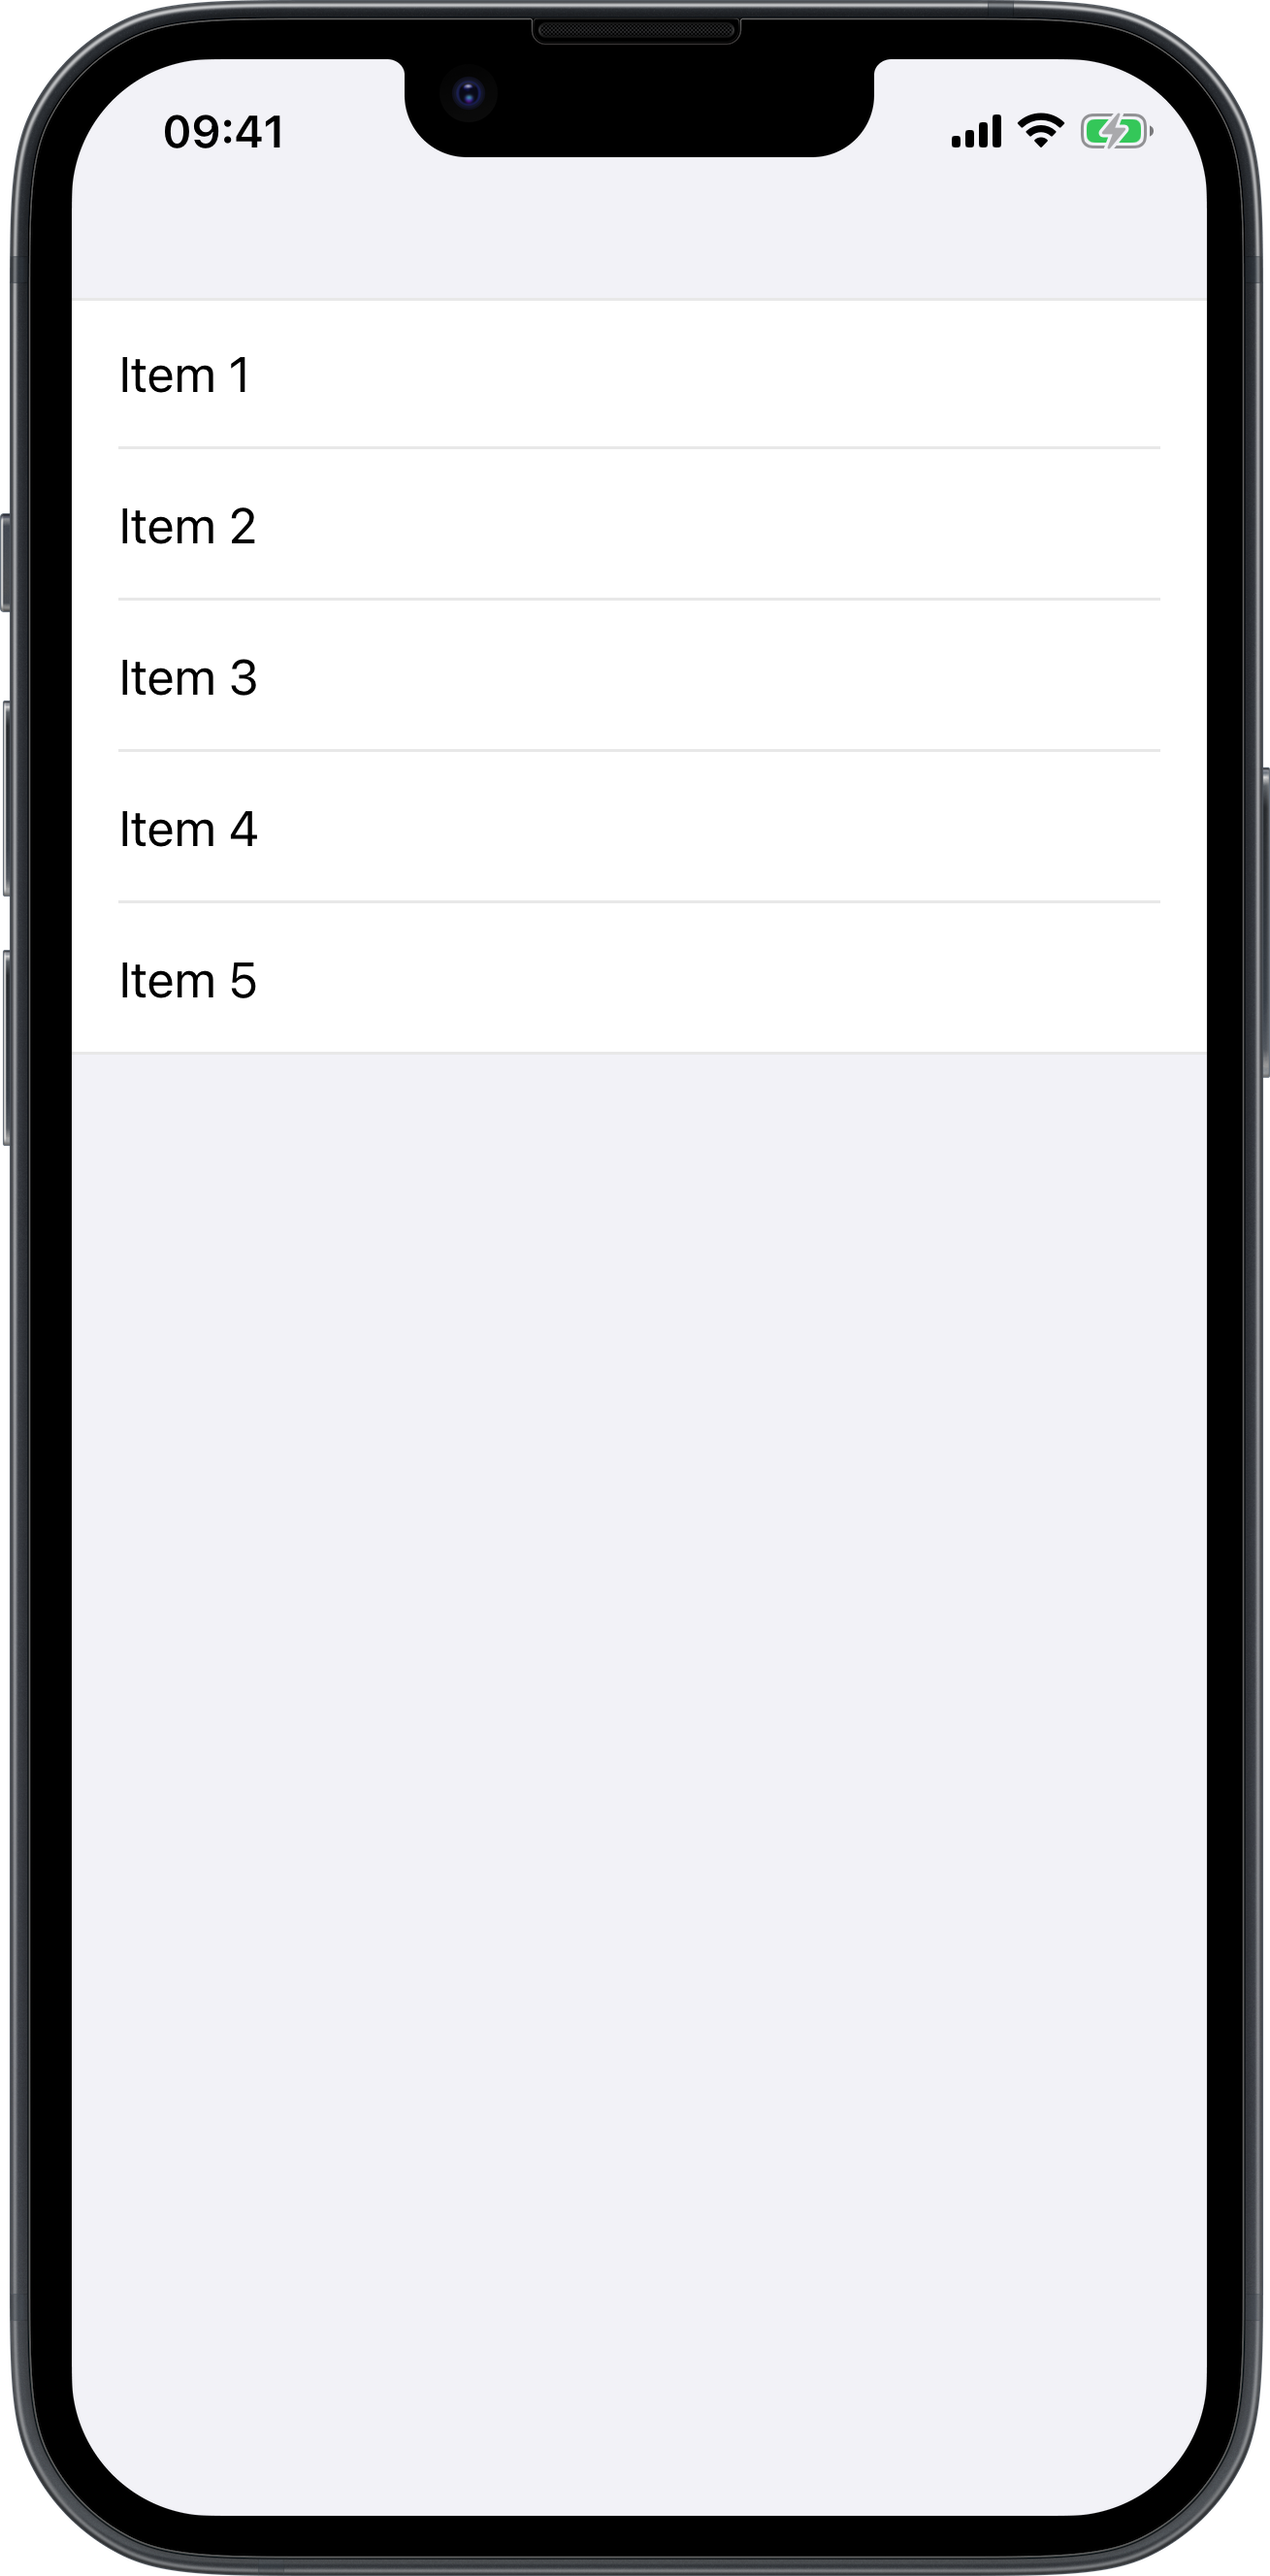
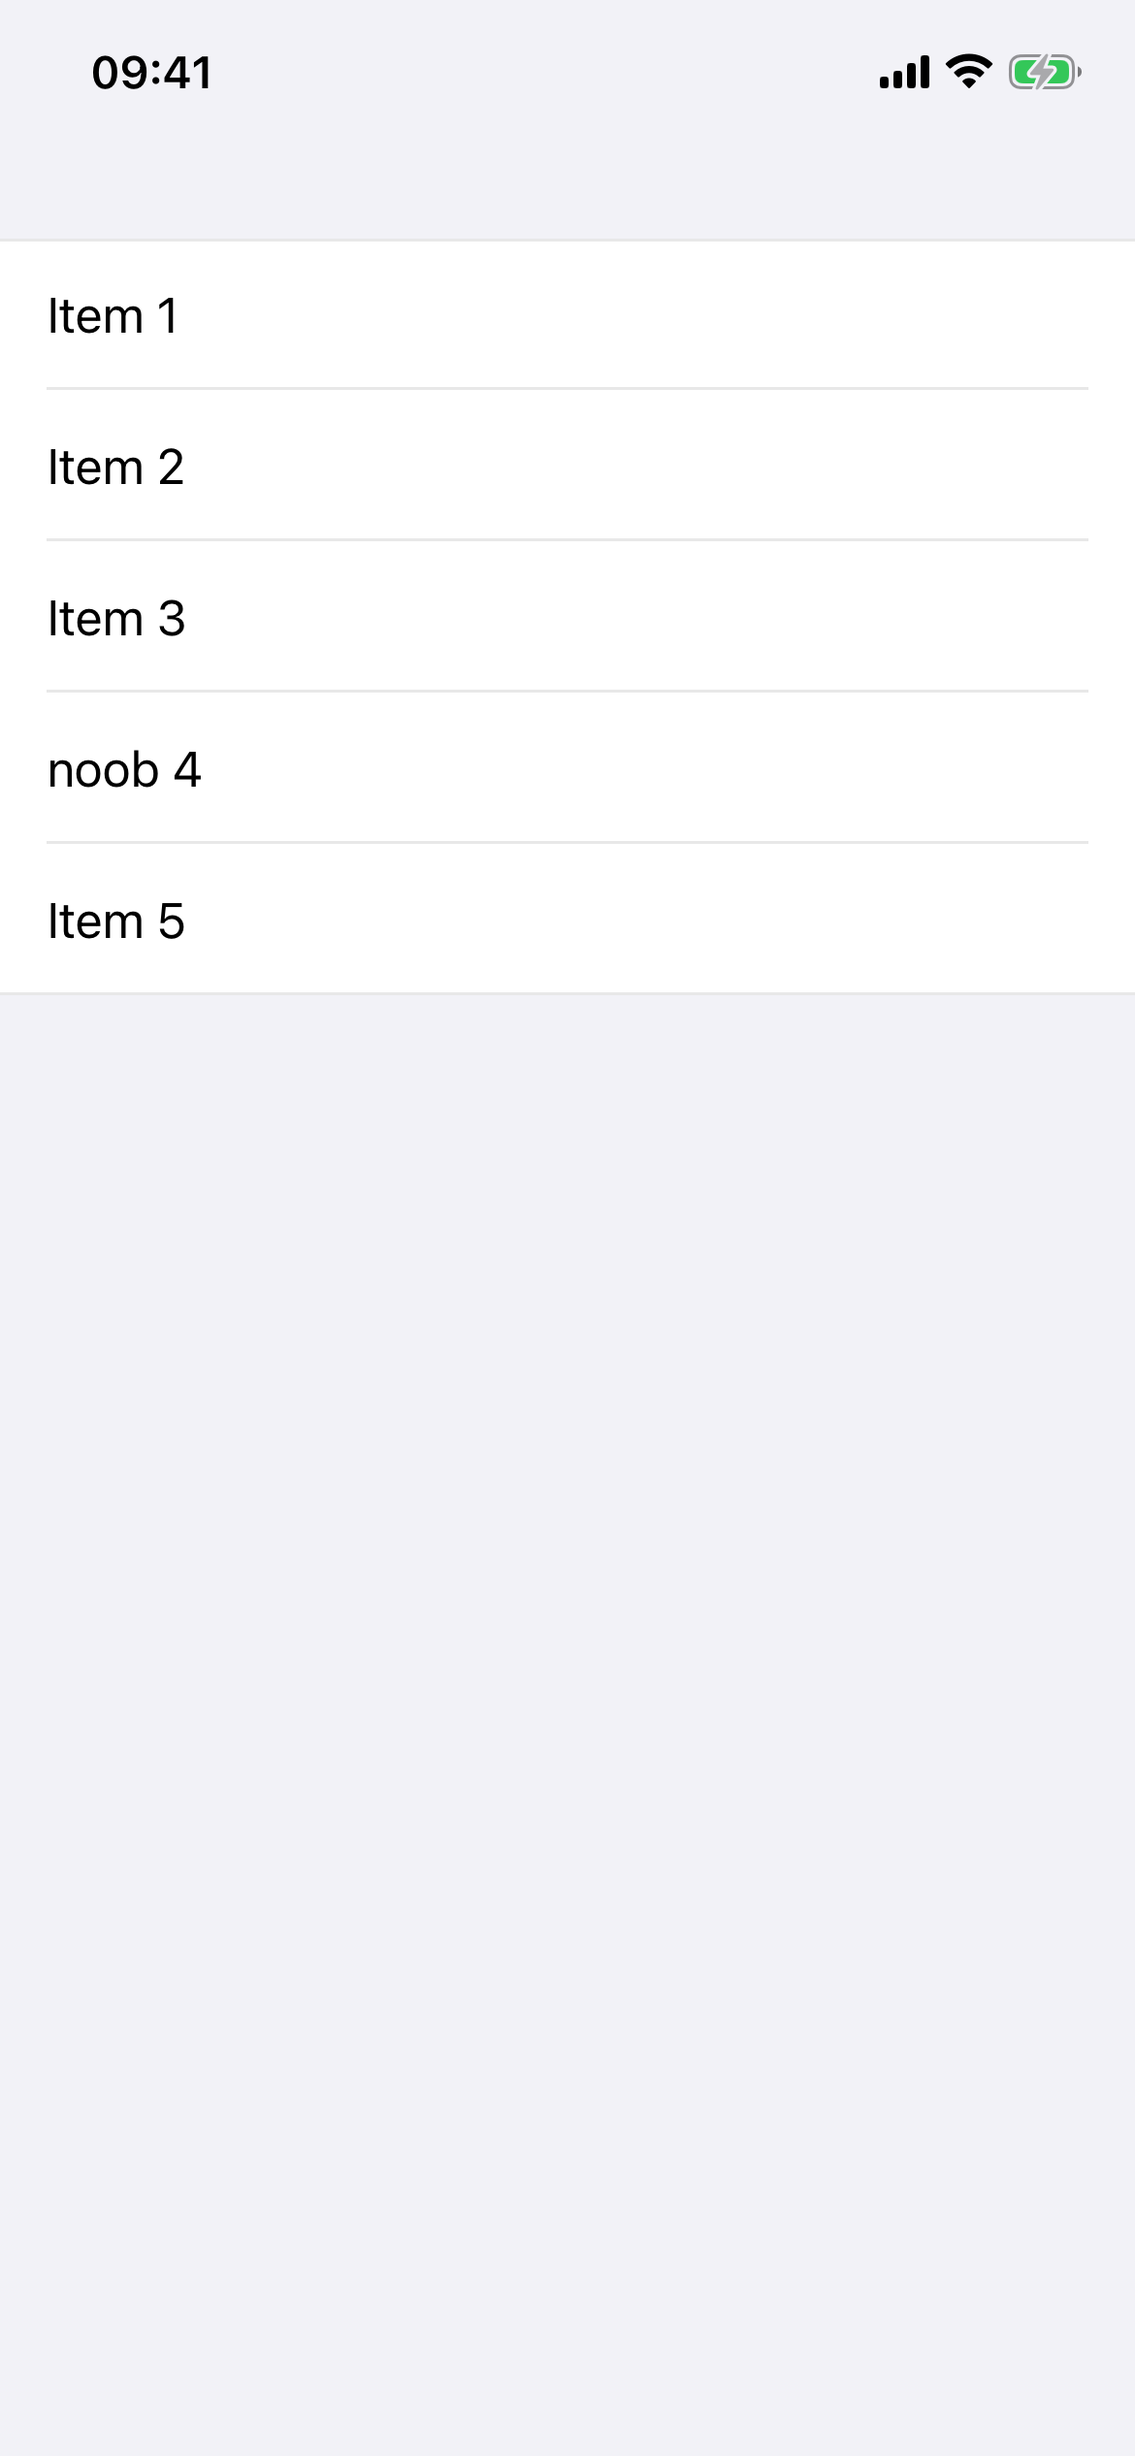
upd

Changed region(s): [[0.0, 0.0, 1.0, 1.0], [0.0923, 0.3744, 0.2154, 0.4056]]

diff --git a/Views/Controls/form.md b/Views/Controls/form.md
@@ -18,9 +18,9 @@
 <body>
     <form>
         <list navigationTitle="Form">
-            <text>Item 1</text>
+            <text>Item kkc</text>
             <text>Item 2</text>
-            <text>Item 3</text>
+            <text>macka</text>
             <text>Item 4</text>
             <text>Item 5</text>
         </list>
@@ -39,7 +39,7 @@
         <text>Item 1</text>
         <text>Item 2</text>
         <text>Item 3</text>
-        <text>Item 4</text>
+        <text>noob 4</text>
         <text>Item 5</text>
     </list>
 </body>
